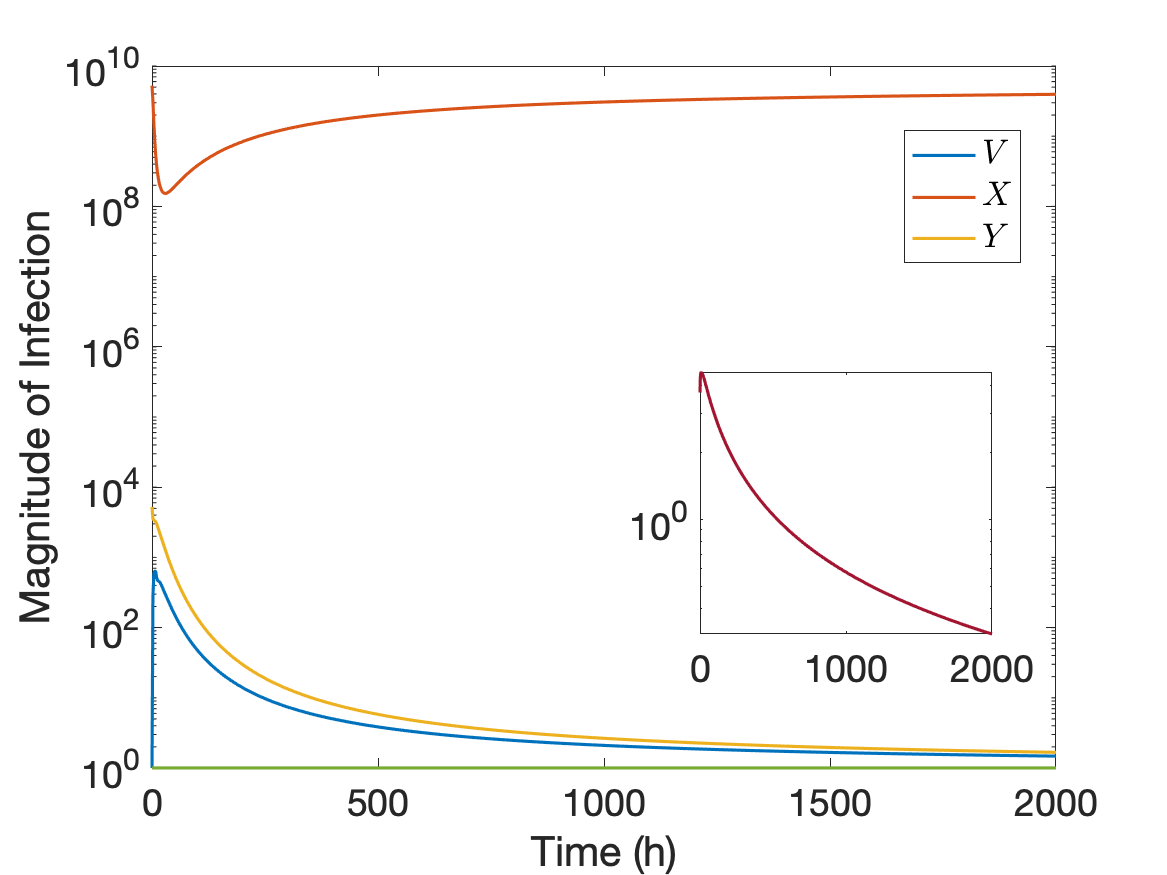
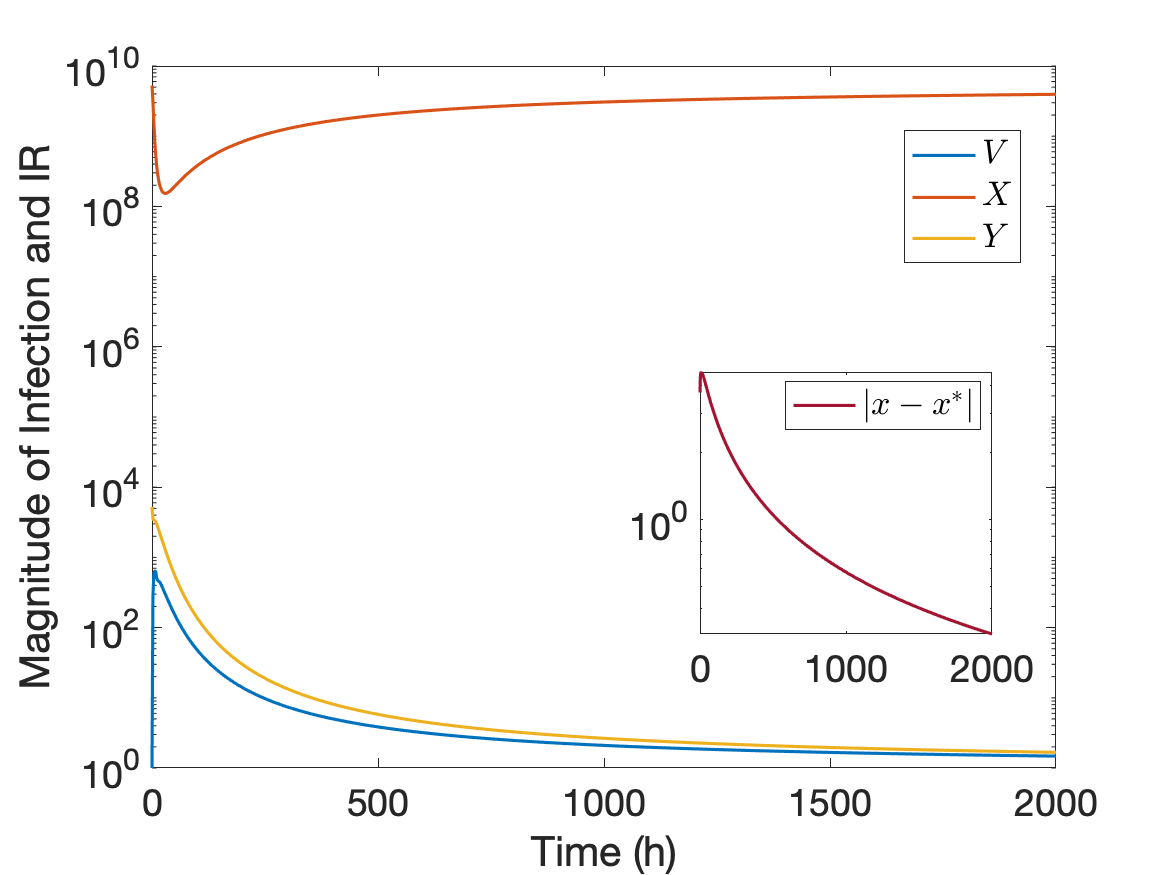
changed legend of inset plots

diff --git a/inset_plots.m b/inset_plots.m
@@ -71,7 +71,11 @@ function inset_plots(params_file, params, hist, dde_options, settings, steady_st
     FontSize = 18; Width = 1.5;
 
     h = figure();
+    if strcmp(state, 'iis_DF')
     semilogy(xvals, 10.^(yvals), 'Linewidth', Width)
+    else
+        semilogy(xvals, 10.^(yvals(1:3,:)), 'Linewidth', Width)
+    end
     set(gca, 'FontSize', FontSize);
     colororder(["#0072BD" "#D95319" "#EDB120" "#7E2F8E" "#77AC30"])
     xlabel('Time (h)');
@@ -87,6 +91,7 @@ function inset_plots(params_file, params, hist, dde_options, settings, steady_st
     axes('Position', [0.6 0.275 0.25 0.3]) % numbers are adjustable: https://www.mathworks.com/help/matlab/ref/axes.html
     box on; 
     semilogy(xvals, vecnorm(yvals-star), 'Linewidth', Width, 'Color', '#A2142F'); % difference to steady state y*
+    legend('$| x-x^* |$', 'Interpreter', 'latex')
     set(gca,'FontSize', FontSize); 
     saveas(h, fullfile('./insets', title), 'png')
 end
